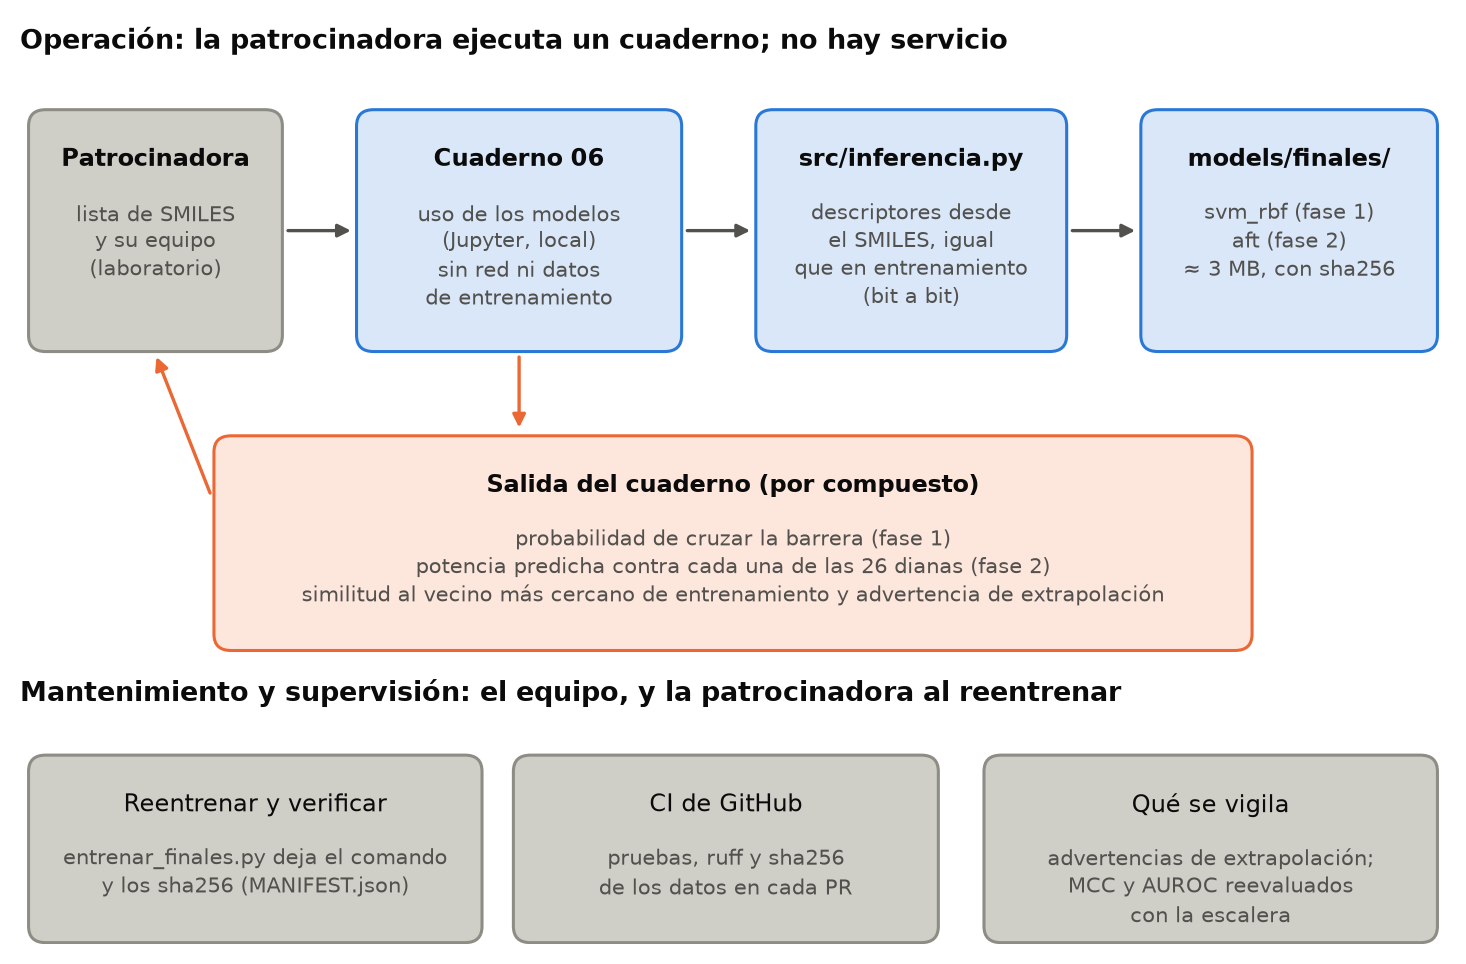
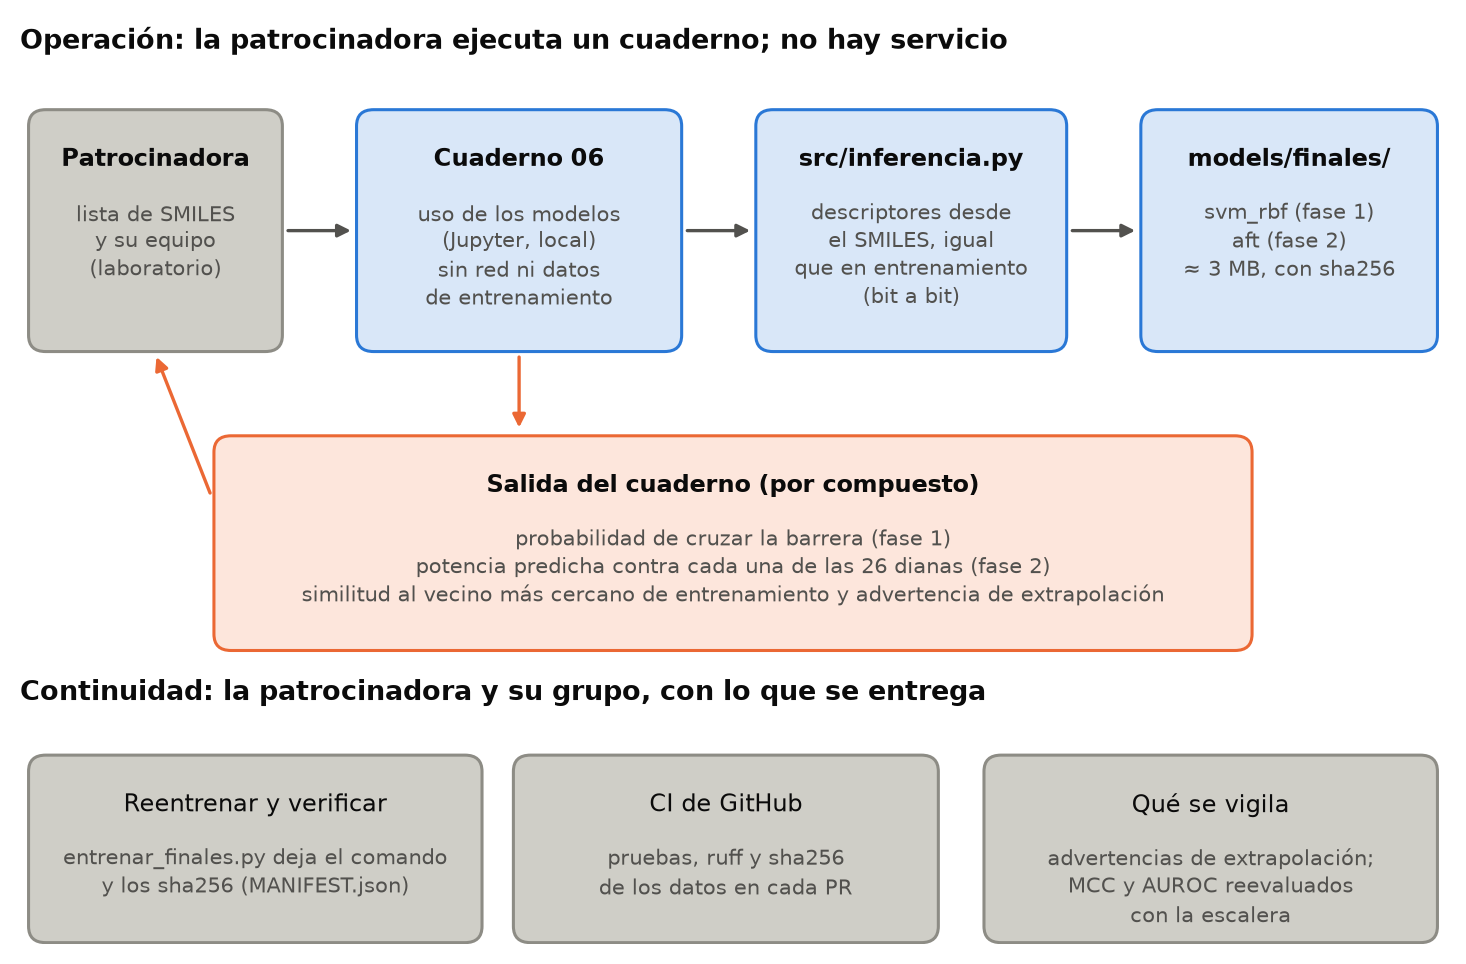
docs: el articulo ya no dice que el equipo mantiene el sistema: la continuidad es de la patrocinadora y su grupo
Claude-Session: https://claude.ai/code/session_01DyPs2i9xGPnaS6xvLpLnMf

Changed region(s): [[0.307, 0.6846, 0.7674, 0.7469], [0.0, 0.6846, 0.2763, 0.7469]]

diff --git a/docs/reportes/articulo/articulo.tex b/docs/reportes/articulo/articulo.tex
@@ -288,7 +288,7 @@ Los dos modelos finales pesan unos 3 MB y se usan con un módulo de inferencia q
 \begin{figure}[H]
   \centering
   \includegraphics[width=0.9\linewidth]{figuras/f7_despliegue.png}
-  \caption{Arquitectura de despliegue: se ejecuta un cuaderno local que llama a un módulo de inferencia y a dos modelos guardados; no hay servicio. Abajo, lo que mantiene el equipo.}
+  \caption{Arquitectura de despliegue: se ejecuta un cuaderno local que llama a un módulo de inferencia y a dos modelos guardados; no hay servicio. Abajo, cómo continúa la patrocinadora con lo que se entrega.}
   \label{fig:f7_despliegue}
 \end{figure}
 
@@ -380,11 +380,11 @@ responsable
 \endhead
 \bottomrule\noalign{}
 \endlastfoot
-extrapolación & proporción de los compuestos consultados cuya similitud al vecino más cercano de entrenamiento es menor que 0.31 & 0.31 es el corte del tercil más raro de la prueba (sección 4.3); si la mayoría de las consultas cae ahí, las cifras de validación no aplican & patrocinadora, con la advertencia del cuaderno \\
-desempeño & AUROC y MCC (fase 1) y concordancia (fase 2) sobre datos etiquetados nuevos, con intervalo remuestreando grupos & 0.793, 0.339 y 0.720 en la prueba reservada; una caída mayor que la desviación entre pliegues pide revisar & equipo, al llegar datos \\
-punto de operación & proporción declarada permeable al cortar en 0.5 contra la prevalencia de los datos nuevos & en el ajuste 70.9\% contra 64.97\%, y en la prueba reservada 79.3\% contra 57.3\%: la diferencia crece cuando la química cambia (sección 4.5) & equipo \\
-integridad & huella criptográfica de modelos y datos contra la registrada; versiones de las dependencias fijadas & se verifica en cada cambio; el reajuste de la fase 2 no repite la cifra de la prueba exactamente (0.7234 contra 0.7200) & equipo \\
-datos y etiquetas & cuántos pares activos aporta cada fuente y qué concentración de corte se usa & el 10 µM es el de cribado heredado del archivo; NPASS es CC BY-NC, solo uso no comercial & patrocinadora y equipo \\
+extrapolación & proporción de los compuestos consultados cuya similitud al vecino más cercano de entrenamiento es menor que 0.31 & 0.31 es el corte del tercil más raro de la prueba (sección 4.3); si la mayoría de las consultas cae ahí, las cifras de validación no aplican & grupo de la patrocinadora, con la advertencia del cuaderno \\
+desempeño & AUROC y MCC (fase 1) y concordancia (fase 2) sobre datos etiquetados nuevos, con intervalo remuestreando grupos & 0.793, 0.339 y 0.720 en la prueba reservada; una caída mayor que la desviación entre pliegues pide revisar & grupo de la patrocinadora, al llegar datos \\
+punto de operación & proporción declarada permeable al cortar en 0.5 contra la prevalencia de los datos nuevos & en el ajuste 70.9\% contra 64.97\%, y en la prueba reservada 79.3\% contra 57.3\%: la diferencia crece cuando la química cambia (sección 4.5) & grupo de la patrocinadora \\
+integridad & huella criptográfica de modelos y datos contra la registrada; versiones de las dependencias fijadas & se verifica en cada cambio; el reajuste de la fase 2 no repite la cifra de la prueba exactamente (0.7234 contra 0.7200) & grupo de la patrocinadora \\
+datos y etiquetas & cuántos pares activos aporta cada fuente y qué concentración de corte se usa & el 10 µM es el de cribado heredado del archivo; NPASS es CC BY-NC, solo uso no comercial & grupo de la patrocinadora \\
 \end{longtable}
 
 \subsection{Riesgos y cómo los mitigamos}

diff --git a/scripts/figuras_articulo.py b/scripts/figuras_articulo.py
@@ -352,7 +352,7 @@ def fig_despliegue() -> None:
     flecha(35, 43.4, 35, 37.8, "", NARANJA)
     flecha(13.4, 33, 9.5, 43.4, "", NARANJA)
 
-    ax.text(0, 19.5, "Mantenimiento y supervisión: el equipo, y la patrocinadora al reentrenar", fontsize=9.6,
+    ax.text(0, 19.5, "Continuidad: la patrocinadora y su grupo, con lo que se entrega", fontsize=9.6,
             fontweight="bold", va="top")
     caja(1, 0.5, 31, 13, "Reentrenar y verificar", "entrenar_finales.py deja el comando\ny los sha256 (MANIFEST.json)", negrita=False)
     caja(35, 0.5, 29, 13, "CI de GitHub", "pruebas, ruff y sha256\nde los datos en cada PR", negrita=False)

diff --git a/docs/reportes/articulo/borrador.md b/docs/reportes/articulo/borrador.md
@@ -333,7 +333,7 @@ cifra registrada.
 
 ![Despliegue](figuras/f7_despliegue.svg)
 
-*Figura 7. Arquitectura de despliegue: se ejecuta un cuaderno local que llama a un módulo de inferencia y a dos modelos guardados; no hay servicio. Abajo, lo que mantiene el equipo.*
+*Figura 7. Arquitectura de despliegue: se ejecuta un cuaderno local que llama a un módulo de inferencia y a dos modelos guardados; no hay servicio. Abajo, cómo continúa la patrocinadora con lo que se entrega.*
 
 ### 5.2 Una herramienta para medir columnas nuevas
 
@@ -388,11 +388,11 @@ se midieron (Tabla 2).
 
 | aspecto | señal | referencia y alerta propuesta | responsable |
 |:--|:--|:--|:--|
-| extrapolación | proporción de los compuestos consultados cuya similitud al vecino más cercano de entrenamiento es menor que 0.31 | 0.31 es el corte del tercil más raro de la prueba (sección 4.3); si la mayoría de las consultas cae ahí, las cifras de validación no aplican | patrocinadora, con la advertencia del cuaderno |
-| desempeño | AUROC y MCC (fase 1) y concordancia (fase 2) sobre datos etiquetados nuevos, con intervalo remuestreando grupos | 0.793, 0.339 y 0.720 en la prueba reservada; una caída mayor que la desviación entre pliegues pide revisar | equipo, al llegar datos |
-| punto de operación | proporción declarada permeable al cortar en 0.5 contra la prevalencia de los datos nuevos | en el ajuste 70.9% contra 64.97%, y en la prueba reservada 79.3% contra 57.3%: la diferencia crece cuando la química cambia (sección 4.5) | equipo |
-| integridad | huella criptográfica de modelos y datos contra la registrada; versiones de las dependencias fijadas | se verifica en cada cambio; el reajuste de la fase 2 no repite la cifra de la prueba exactamente (0.7234 contra 0.7200) | equipo |
-| datos y etiquetas | cuántos pares activos aporta cada fuente y qué concentración de corte se usa | el 10 µM es el de cribado heredado del archivo; NPASS es CC BY-NC, solo uso no comercial | patrocinadora y equipo |
+| extrapolación | proporción de los compuestos consultados cuya similitud al vecino más cercano de entrenamiento es menor que 0.31 | 0.31 es el corte del tercil más raro de la prueba (sección 4.3); si la mayoría de las consultas cae ahí, las cifras de validación no aplican | grupo de la patrocinadora, con la advertencia del cuaderno |
+| desempeño | AUROC y MCC (fase 1) y concordancia (fase 2) sobre datos etiquetados nuevos, con intervalo remuestreando grupos | 0.793, 0.339 y 0.720 en la prueba reservada; una caída mayor que la desviación entre pliegues pide revisar | grupo de la patrocinadora, al llegar datos |
+| punto de operación | proporción declarada permeable al cortar en 0.5 contra la prevalencia de los datos nuevos | en el ajuste 70.9% contra 64.97%, y en la prueba reservada 79.3% contra 57.3%: la diferencia crece cuando la química cambia (sección 4.5) | grupo de la patrocinadora |
+| integridad | huella criptográfica de modelos y datos contra la registrada; versiones de las dependencias fijadas | se verifica en cada cambio; el reajuste de la fase 2 no repite la cifra de la prueba exactamente (0.7234 contra 0.7200) | grupo de la patrocinadora |
+| datos y etiquetas | cuántos pares activos aporta cada fuente y qué concentración de corte se usa | el 10 µM es el de cribado heredado del archivo; NPASS es CC BY-NC, solo uso no comercial | grupo de la patrocinadora |
 
 Table: Qué se supervisa durante la operación: la señal, su referencia medida en este trabajo con la alerta propuesta, y el responsable.
 
